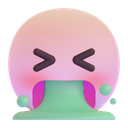
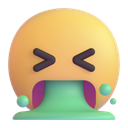
v0.8.2 : taches plus grandes, résumé du journal, humeurs renommées, icônes zip n° 6
Claude-Session: https://claude.ai/code/session_01CLoYuFR5joGQjpRZiZuUBa

diff --git a/src/ui/DreamList.tsx b/src/ui/DreamList.tsx
@@ -7,8 +7,8 @@ import { normalizeDream, type Dream, type Sleep } from '../data/types';
 import { AppIcon, type AppIconName } from './AppIcon';
 import { Field, Title, Txt, type PressState } from './components';
 import { formatLongDate, formatShortDate } from './dates';
-import { colors, fonts, moodImageFor, optionFor, TIMES_OF_DAY, WEATHERS } from './theme';
-import { Moon, WatercolorDot } from './widgets';
+import { colors, fonts, moodImageFor } from './theme';
+import { ColorStain, Moon } from './widgets';
 
 const capitalize = (t: string) => t.charAt(0).toUpperCase() + t.slice(1);
 
@@ -150,20 +150,11 @@ function DreamRow({ dream, selected, onPress }: { dream: Dream; selected: boolea
           </View>
         )}
         <View style={{ flex: 1 }} />
-        {d.colors.slice(0, 4).map((c, i) => (
-          <WatercolorDot key={c} color={c} size={16} seed={i + 2} />
-        ))}
-        {d.lucidity !== null && <AppIcon name={`lucidite-b-${d.lucidity}` as AppIconName} size={18} />}
-        {moodImg && <AppIcon name={moodImg as AppIconName} size={20} />}
-        {d.weather.slice(0, 2).map((w) => {
-          const o = optionFor(WEATHERS, w);
-          return o.image ? <AppIcon key={w} name={o.image as AppIconName} size={20} /> : <Txt key={w} size={14}>{o.emoji}</Txt>;
-        })}
-        {d.timeOfDay[0] &&
-          (() => {
-            const o = optionFor(TIMES_OF_DAY, d.timeOfDay[0]);
-            return o.image ? <AppIcon name={o.image as AppIconName} size={20} /> : <Txt size={14}>{o.emoji}</Txt>;
-          })()}
+        {/* Résumé : couleurs (en tache), humeur, lucidité, clarté — dans cet ordre. */}
+        {d.colors.length > 0 && <ColorStain colors={d.colors} height={26} seed={d.id.charCodeAt(d.id.length - 1)} />}
+        {moodImg && <AppIcon name={moodImg as AppIconName} size={22} />}
+        {d.lucidity !== null && <AppIcon name={`lucidite-b-${d.lucidity}` as AppIconName} size={22} />}
+        {d.clarity !== null && d.clarity >= 1 && d.clarity <= 5 && <AppIcon name={`clarte-${d.clarity}` as AppIconName} size={22} />}
       </View>
       <Title size={19} numberOfLines={1} style={!d.title.trim() && { color: colors.faint, fontStyle: 'italic' }}>
         {d.title.trim() || 'Sans titre'}

diff --git a/src/ui/widgets.tsx b/src/ui/widgets.tsx
@@ -1,7 +1,7 @@
 import Ionicons from '@expo/vector-icons/Ionicons';
 import { useMemo, useState } from 'react';
 import { Pressable, StyleSheet, Text, View } from 'react-native';
-import Svg, { Circle, Defs, Path, RadialGradient, Stop } from 'react-native-svg';
+import Svg, { Circle, Defs, G, Path, RadialGradient, Stop } from 'react-native-svg';
 import { AppIcon, type AppIconName } from './AppIcon';
 import { Chip, Field, type PressState } from './components';
 import { colors, DREAM_COLORS, fonts, LUCIDITY_LABELS } from './theme';
@@ -270,6 +270,35 @@ function blobPath(size: number, seed: number) {
     d += ` Q ${p[0]} ${p[1]} ${(p[0] + q[0]) / 2} ${(p[1] + q[1]) / 2}`;
   }
   return d + ' Z';
+}
+
+/**
+ * Tache d'aquarelle des couleurs d'un rêve (comme sous les lieux de la carte) : une tache par couleur,
+ * qui se chevauchent un peu.
+ */
+export function ColorStain(props: { colors: string[]; height: number; seed?: number }) {
+  const list = props.colors.slice(0, 4);
+  const h = props.height;
+  const blob = h;
+  const step = h * 0.55; // les taches se chevauchent
+  const w = blob + step * (list.length - 1);
+  let k = (props.seed ?? 7) * 7919 + 13;
+  const rnd = () => ((k = (k * 9301 + 49297) % 233280) / 233280);
+  return (
+    <Svg width={w} height={h} viewBox={`0 0 ${w} ${h}`}>
+      {list.map((c, i) => {
+        const dy = (rnd() - 0.5) * h * 0.12;
+        const sc = 0.9 + rnd() * 0.1;
+        const bs = blob * sc;
+        return (
+          <G key={c + i} transform={`translate(${i * step + (blob - bs) / 2} ${(h - bs) / 2 + dy})`}>
+            <Path d={blobPath(bs, i + 2 + (props.seed ?? 0))} fill={c} fillOpacity={0.6} />
+            <Path d={blobPath(bs * 0.62, i + 5 + (props.seed ?? 0))} transform={`translate(${bs * 0.16} ${bs * 0.14})`} fill={c} fillOpacity={0.4} />
+          </G>
+        );
+      })}
+    </Svg>
+  );
 }
 
 export function WatercolorDot(props: { color: string; size: number; seed?: number }) {

diff --git a/src/ui/theme.ts b/src/ui/theme.ts
@@ -168,10 +168,10 @@ export const WEATHER_CHOICES: EmojiOption[] = ['soleil', 'eclaircies', 'partiel'
 /** Humeur : niveau de 0 à 5, et un emoji au choix dans chaque niveau. */
 export const MOOD_GRID: { level: number; label: string; emojis: string[]; images: string[] }[] = [
   { level: 0, label: 'Horrible', emojis: ['😡', '🤮', '😭'], images: ['humeur-colere', 'humeur-degout', 'humeur-pleurs'] },
-  { level: 1, label: 'Très mauvaise', emojis: ['😱', '😤', '😔'], images: ['humeur-peur', 'humeur-soupir', 'humeur-tristesse'] },
-  { level: 2, label: 'Mauvaise', emojis: ['🫩', '🙄', '🫠'], images: ['humeur-ennui', 'humeur-agacement', 'humeur-gene'] },
-  { level: 3, label: 'Mitigée', emojis: ['🙃', '🤭', '🙂'], images: ['humeur-ironie', 'humeur-gloussement', 'humeur-sourire'] },
-  { level: 4, label: 'Bonne', emojis: ['🤗', '🥰', '😎'], images: ['humeur-tendresse', 'humeur-amour', 'humeur-cool'] },
+  { level: 1, label: 'Mauvaise', emojis: ['😱', '😤', '😔'], images: ['humeur-peur', 'humeur-soupir', 'humeur-tristesse'] },
+  { level: 2, label: 'Mitigé', emojis: ['🫩', '🙄', '🫠'], images: ['humeur-ennui', 'humeur-agacement', 'humeur-gene'] },
+  { level: 3, label: 'Okay', emojis: ['🙃', '🤭', '🙂'], images: ['humeur-ironie', 'humeur-gloussement', 'humeur-sourire'] },
+  { level: 4, label: 'Bien', emojis: ['🤗', '🥰', '😎'], images: ['humeur-tendresse', 'humeur-amour', 'humeur-cool'] },
   { level: 5, label: 'Excellente', emojis: ['😍', '😁', '🤣'], images: ['humeur-emerveille', 'humeur-joie', 'humeur-fou-rire'] },
 ];
 

diff --git a/src/App.tsx b/src/App.tsx
@@ -182,8 +182,8 @@ function Main() {
         options={[
           { value: 'map', label: 'Carte', image: 'carte', imageOn: 'carte-encre' },
           { value: 'journal', label: 'Journal', image: 'journal', imageOn: 'journal-encre' },
-          { value: 'sleep', label: 'Sommeil', image: 'sommeil' },
-          { value: 'stats', label: 'Statistiques', image: 'statistiques' },
+          { value: 'sleep', label: 'Sommeil', image: 'sommeil', imageOn: 'sommeil-encre' },
+          { value: 'stats', label: 'Statistiques', image: 'statistiques', imageOn: 'statistiques-encre' },
         ]}
         testID="tab"
       />

diff --git a/scripts/map/runtime.js b/scripts/map/runtime.js
@@ -139,8 +139,8 @@
     var out = '<svg class="stain" viewBox="0 0 200 200" aria-hidden="true">';
     var list = cols || ['#b8955c'];
     for (var i = 0; i < list.length; i++) {
-      var cx = 100 + (r() - 0.5) * 50, cy = 100 + (r() - 0.5) * 50;
-      var rad = 40 + r() * 20;
+      var cx = 100 + (r() - 0.5) * 44, cy = 100 + (r() - 0.5) * 44;
+      var rad = 50 + r() * 18;
       var pts = [], n = 10;
       for (var k = 0; k < n; k++) {
         var a = (k / n) * Math.PI * 2, rr = rad * (0.7 + r() * 0.35);

diff --git a/src/ui/AppIcon.tsx b/src/ui/AppIcon.tsx
@@ -79,6 +79,8 @@ const ICONS = {
   'reglages-sans-fond': require('../../assets/ui/reglages-sans-fond.png'),
   'lien-b': require('../../assets/ui/lien-b.png'),
   // zip n° 5
+  'sommeil-encre': require('../../assets/ui/sommeil-encre.png'),
+  'statistiques-encre': require('../../assets/ui/statistiques-encre.png'),
   'ajouter': require('../../assets/ui/ajouter.png'),
   'ajouter-petit': require('../../assets/ui/ajouter-petit.png'),
   'retirer': require('../../assets/ui/retirer.png'),

diff --git a/scripts/map/style.css b/scripts/map/style.css
@@ -48,10 +48,10 @@ body {
 }
 .stainWrap {
   position: absolute;
-  left: -90%;
-  top: -80%;
-  width: 280%;
-  height: 280%;
+  left: -150%;
+  top: -140%;
+  width: 400%;
+  height: 400%;
   pointer-events: none;
 }
 .stain {

diff --git a/AGENTS.md b/AGENTS.md
@@ -297,6 +297,9 @@ Expo change à chaque version. Avant d'utiliser une API Expo/React Native, véri
 - [x] v0.6.4 : journal des mises à jour dans les Réglages (3 dernières versions, les autres à la demande).
 - [x] v0.6.5 : app = 3 dernières versions seulement ; historique complet sur la page « Toutes les nouveautés ».
 - [x] v0.7.0 : tracker de sommeil, lien rêves ↔ sommeil, qualité/énergie, formulaire compact, 4 onglets + menu +.
+- [x] v0.8.2 : zip n° 6 (humeurs désaturées, sommeil-encre, statistiques-encre = onglet actif), taches de la
+  carte plus grandes, résumé du journal = ColorStain + humeur + lucidité + clarté (dans cet ordre, demande de
+  la personne), libellés MOOD_GRID : Horrible, Mauvaise, Mitigé, Okay, Bien, Excellente.
 - [x] v0.8.1 : icônes zip n° 5 partout, tracker redessiné (src/ui/SleepRibbon.tsx : ruban dégradé nuit → aube
   pour le sommeil ; **un seul ruban continu du coucher au lever, vide quand on est éveillé** (avant, pendant, après) — demande de la
   personne), date du coucher auto après minuit (`autoSleepDate`).
